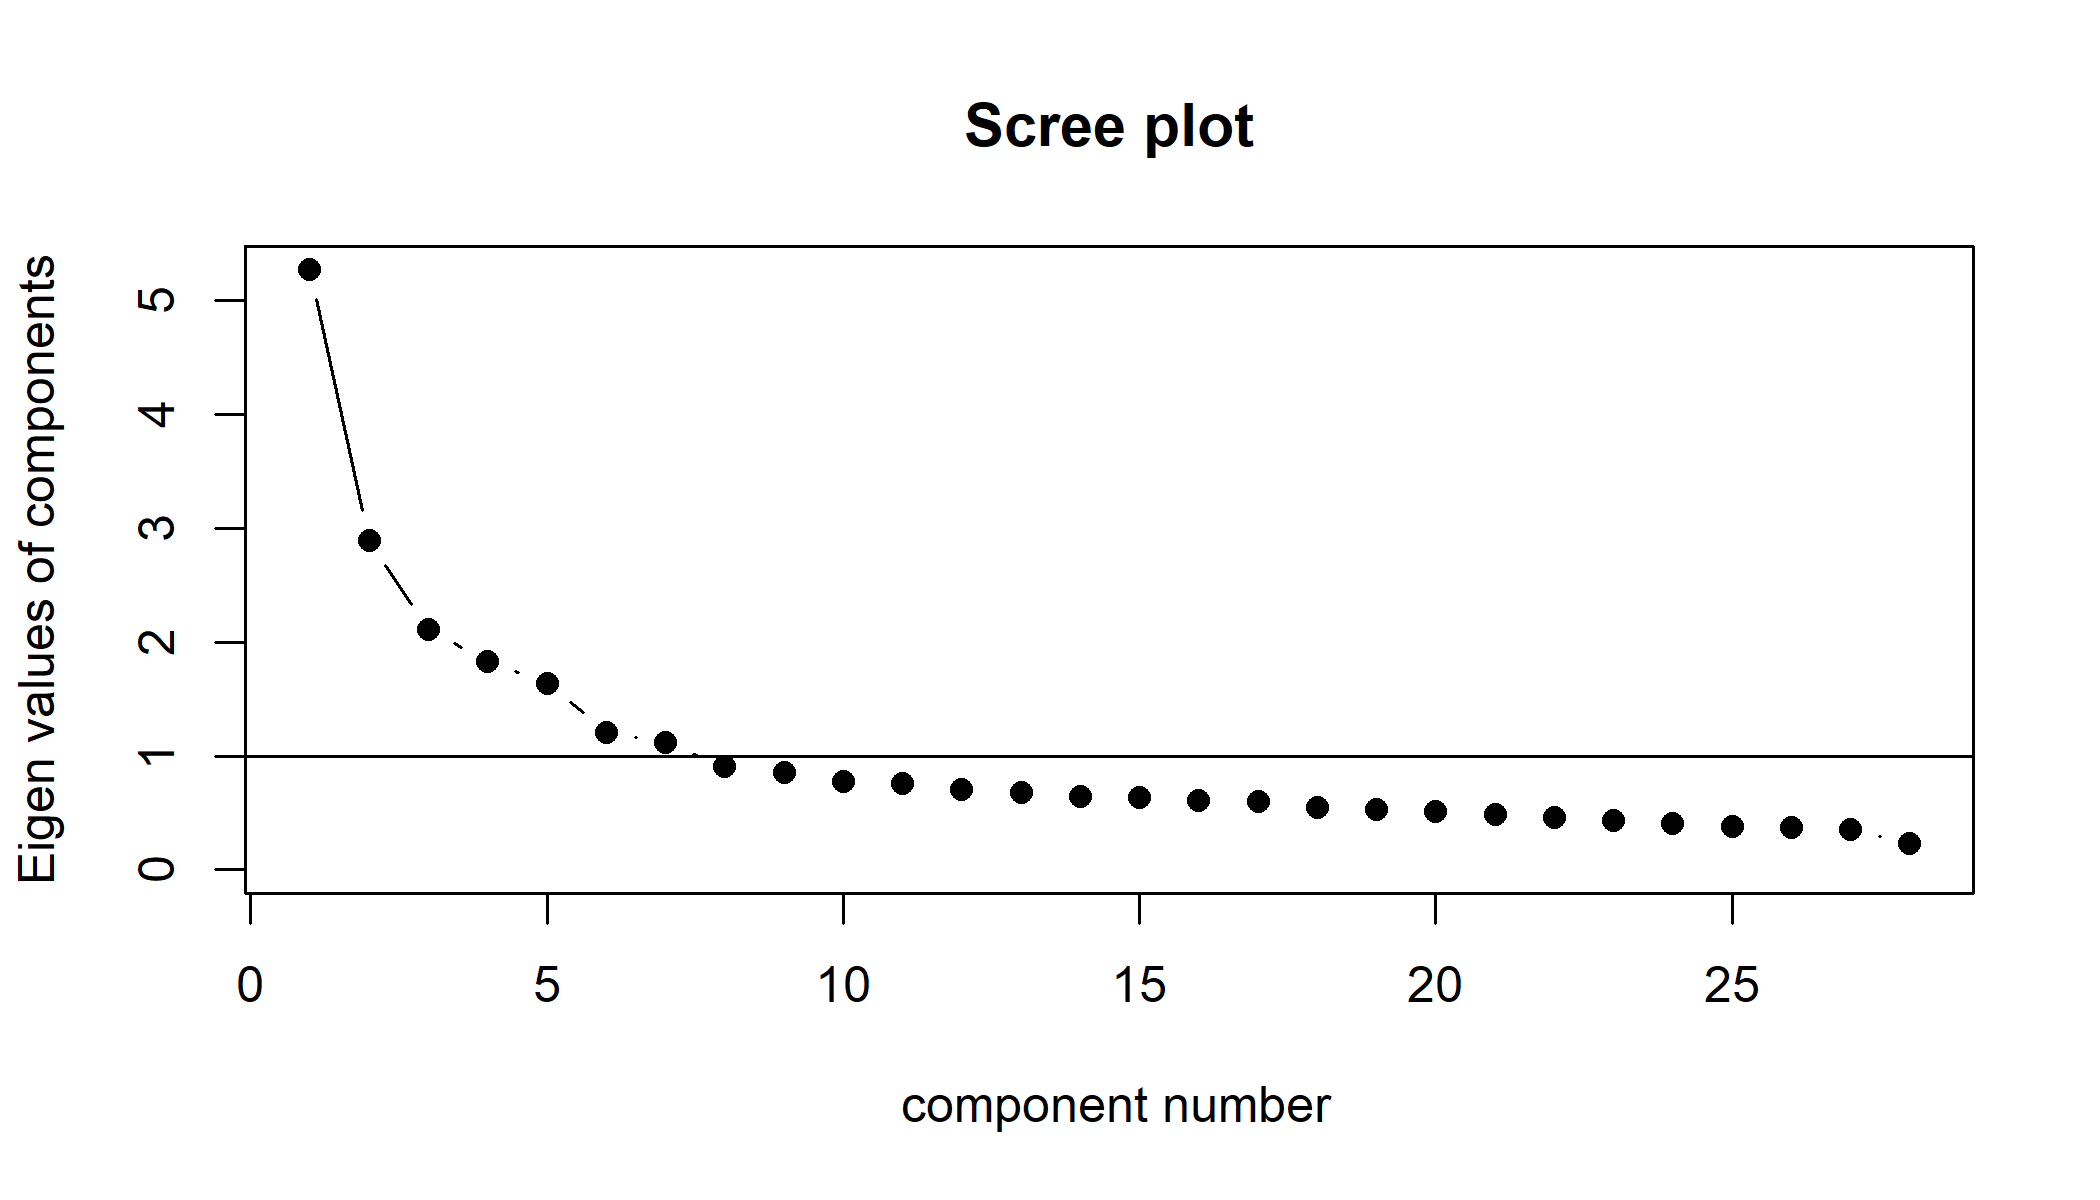
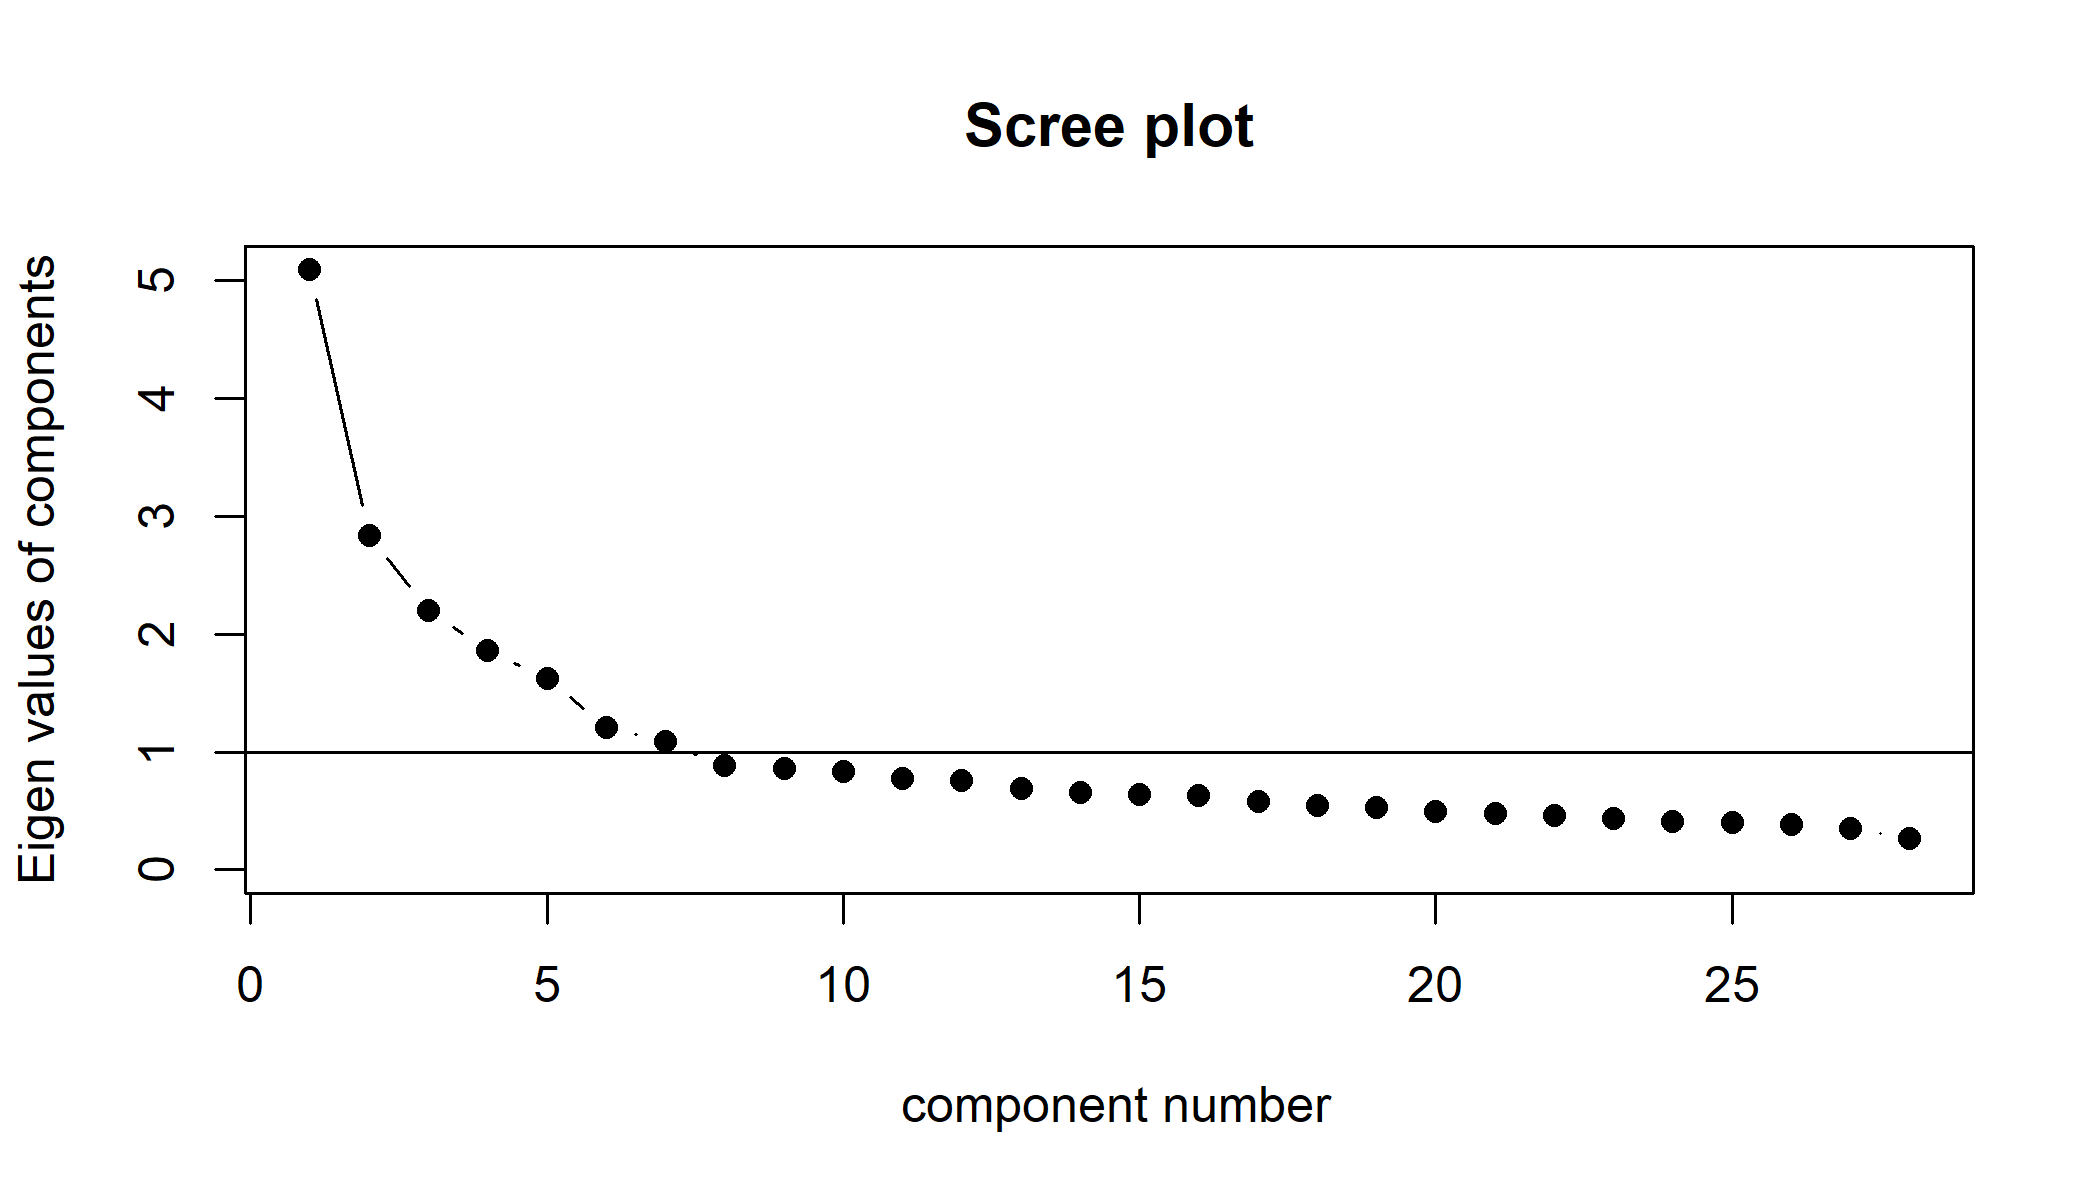
bissl was rausschemiessen

diff --git a/Predavanja/05_FA.html b/Predavanja/05_FA.html
@@ -630,7 +630,8 @@ fa.parallel(bfi_c, n.obs = 200,fa = "fa", fm = "mle") # MLE metoda
 # Rotacija faktora
 &lt;br&gt;
 &lt;br&gt;
-&lt;img src="../Foto/roto_fa.png" width="650px" style="display: block; margin: auto;" /&gt;
+&lt;br&gt;
+&lt;img src="../Foto/roto_fa.png" width="700px" style="display: block; margin: auto;" /&gt;
 
 ---
 
@@ -738,11 +739,11 @@ head(bfi_EFA, 2)
 
 ```
 ##       A1 A2 A3 A4 A5 C1 C2 C3 C4 C5 E1 E2 E3 E4 E5 N1 N2 N3 N4 N5 O1 O2 O3 O4
-## 67540  2  5  3  5  4  5  4  3  4  4  5  2  3  2  3  1  4  5  5  2  4  2  4  5
-## 66839  2  5  5  4  5  4  2  2  2  3  1  2  5  5  6  4  5  6  3  4  5  2  5  6
+## 64069  2  6  5  3  4  2  3  6  5  5  1  3  4  6  5  3  4  5  1  4  4  3  4  6
+## 64495  3  5  4  6  5  5  5  6  1  1  6  6  2  2  4  4  4  2  4  4  5  1  5  6
 ##       O5 gender education age
-## 67540  3      2         3  23
-## 66839  2      2         5  31
+## 64069  3      2         4  24
+## 64495  2      1         4  28
 ```
 
 ```r
@@ -751,10 +752,10 @@ head(bfi_CFA, 2)
 
 ```
 ##       A1 A2 A3 A4 A5 C1 C2 C3 C4 C5 E1 E2 E3 E4 E5 N1 N2 N3 N4 N5 O1 O2 O3 O4
-## 61618  2  4  5  2  5  5  4  4  3  4  1  1  6  4  3  3  3  3  5  5  4  2  4  3
+## 61617  2  4  3  4  4  2  3  3  4  4  3  3  3  4  4  3  4  2  2  3  3  6  3  4
 ## 61620  5  4  5  4  4  4  5  4  2  5  2  4  4  4  5  4  5  4  2  3  4  2  5  5
 ##       O5 gender education age
-## 61618  3      2        NA  18
+## 61617  3      1        NA  16
 ## 61620  2      2        NA  17
 ```
 
@@ -771,31 +772,31 @@ head(bfi_EFA_cor,4)
 ```
 
 ```
-##            A1         A2         A3         A4         A5           C1
-## A1  1.0000000 -0.3485411 -0.2616921 -0.1074986 -0.2112410 -0.002008271
-## A2 -0.3485411  1.0000000  0.4893062  0.3396107  0.3834474  0.103883312
-## A3 -0.2616921  0.4893062  1.0000000  0.3656780  0.5241816  0.145375299
-## A4 -0.1074986  0.3396107  0.3656780  1.0000000  0.3088916  0.092911860
-##            C2          C3         C4          C5         E1         E2
-## A1 0.01015049 -0.03456706  0.1120228  0.04244447  0.1317213  0.1000713
-## A2 0.16460793  0.17418600 -0.1517181 -0.10327993 -0.2302333 -0.2428094
-## A3 0.17009433  0.12609501 -0.1363902 -0.16874058 -0.2576359 -0.3142560
-## A4 0.21155697  0.09333812 -0.1298431 -0.22470974 -0.1339349 -0.1973320
-##             E3          E4          E5          N1          N2          N3
-## A1 -0.05687284 -0.07363716 -0.04034168  0.16762132  0.13160059  0.09706986
-## A2  0.28124568  0.27899770  0.29251717 -0.07165972 -0.03320127 -0.03650203
-## A3  0.41987223  0.39180883  0.28060836 -0.08803255 -0.06892558 -0.03712757
-## A4  0.21656333  0.33038534  0.16447138 -0.07929063 -0.12057037 -0.03386250
-##             N4           N5           O1            O2          O3          O4
-## A1  0.05200122  0.049425921 -0.001378464  0.0906157281 -0.07640793 -0.09550439
-## A2 -0.10430063  0.021558065  0.147759815  0.0008835529  0.16253218  0.09659215
-## A3 -0.13574623 -0.022086094  0.189609936 -0.0211844842  0.27305296  0.06358573
-## A4 -0.15938513 -0.004502436  0.081096994  0.0102137224  0.08934591 -0.04108789
-##              O5     gender    education         age
-## A1  0.118194330 -0.1456975 -0.124051244 -0.14773153
-## A2 -0.099962553  0.1905353  0.018466904  0.13203053
-## A3 -0.105185155  0.1304746  0.018054318  0.09565403
-## A4 -0.007090525  0.1153849 -0.004191934  0.13620315
+##            A1         A2         A3         A4         A5         C1         C2
+## A1  1.0000000 -0.3352959 -0.2728057 -0.1375883 -0.1514420 0.01739205 0.01060102
+## A2 -0.3352959  1.0000000  0.4877745  0.3459091  0.3811325 0.12697746 0.14392010
+## A3 -0.2728057  0.4877745  1.0000000  0.3613521  0.4900486 0.12489855 0.13785354
+## A4 -0.1375883  0.3459091  0.3613521  1.0000000  0.3235077 0.09467829 0.23279038
+##             C3         C4          C5         E1          E2         E3
+## A1 -0.01783306  0.1376209  0.04123172  0.1112480  0.09490553 -0.0283627
+## A2  0.23100935 -0.1588774 -0.12757642 -0.2207431 -0.22859332  0.2721867
+## A3  0.16741553 -0.1454697 -0.16289472 -0.2483077 -0.32009550  0.4171098
+## A4  0.13725781 -0.1463744 -0.20863281 -0.1310965 -0.18430445  0.1784194
+##             E4          E5          N1          N2          N3          N4
+## A1 -0.06212886 -0.03560382  0.15099350  0.12728828  0.10307092  0.02589476
+## A2  0.30960792  0.29424172 -0.09966623 -0.07923077 -0.05475419 -0.10669241
+## A3  0.39248887  0.26610977 -0.10400972 -0.08546580 -0.05685266 -0.14574324
+## A4  0.30785232  0.16574148 -0.08886486 -0.12879214 -0.06764519 -0.13969324
+##             N5         O1          O2          O3          O4          O5
+## A1  0.01821888 0.02036992  0.09238427 -0.06042714 -0.07379101  0.10281922
+## A2  0.02189162 0.12222326  0.02202875  0.15042011  0.08569123 -0.09351295
+## A3 -0.03098240 0.12210058 -0.02616394  0.23878685  0.02402204 -0.06915835
+## A4  0.03268684 0.06035262  0.04658407  0.07070544 -0.04244752  0.01176520
+##        gender   education         age
+## A1 -0.1186945 -0.13282060 -0.15790071
+## A2  0.1957883 -0.01801807  0.12943842
+## A3  0.1592532 -0.01504874  0.07515617
+## A4  0.1500163 -0.04727867  0.14161828
 ```
 ]
 
@@ -810,18 +811,6 @@ scree(bfi_EFA_cor, factors = FALSE)
 ```
 
 &lt;img src="05_FA_files/figure-html/unnamed-chunk-32-1.png" style="display: block; margin: auto;" /&gt;
-
-
----
-
-# Eksplorativna vs. konfirmatorna FA
-
-
-&lt;img src="../Foto/konf_FA.png" width="350px" style="display: block; margin: auto;" /&gt;
-
-
-&lt;img src="../Foto/eksp_FA.png" width="350px" style="display: block; margin: auto;" /&gt;
-
 
 ---
 
@@ -838,73 +827,73 @@ EFA_model
 ## Factor Analysis using method =  minres
 ## Call: fa(r = bfi_EFA, nfactors = 6)
 ## Standardized loadings (pattern matrix) based upon correlation matrix
-##             MR2   MR3   MR1   MR5   MR4   MR6    h2   u2 com
-## A1         0.10  0.07 -0.08 -0.56  0.05  0.29 0.338 0.66 1.7
-## A2         0.03  0.08 -0.06  0.65 -0.01 -0.03 0.473 0.53 1.1
-## A3        -0.04  0.04 -0.14  0.57  0.12  0.12 0.519 0.48 1.3
-## A4        -0.06  0.16 -0.11  0.37 -0.08  0.15 0.253 0.75 2.2
-## A5        -0.20  0.00 -0.18  0.46  0.13  0.19 0.484 0.52 2.3
-## C1         0.04  0.53  0.00 -0.02  0.13  0.03 0.322 0.68 1.1
-## C2         0.06  0.69  0.15  0.02  0.11  0.20 0.526 0.47 1.3
-## C3        -0.03  0.55  0.11  0.08 -0.04  0.04 0.301 0.70 1.1
-## C4         0.06 -0.67  0.08 -0.03  0.03  0.26 0.565 0.44 1.4
-## C5         0.12 -0.56  0.19  0.00  0.11  0.05 0.428 0.57 1.4
-## E1        -0.13  0.08  0.59 -0.16 -0.05  0.08 0.396 0.60 1.3
-## E2         0.05 -0.03  0.68 -0.07 -0.07  0.04 0.551 0.45 1.1
-## E3         0.02  0.00 -0.36  0.15  0.41  0.23 0.534 0.47 2.9
-## E4        -0.06  0.01 -0.55  0.18  0.05  0.29 0.563 0.44 1.8
-## E5         0.19  0.27 -0.42  0.06  0.23 -0.02 0.438 0.56 2.9
-## N1         0.86  0.00 -0.08 -0.08 -0.03 -0.01 0.714 0.29 1.0
-## N2         0.84  0.01 -0.05 -0.03  0.00 -0.06 0.681 0.32 1.0
-## N3         0.68 -0.03  0.11  0.07  0.04  0.09 0.543 0.46 1.1
-## N4         0.41 -0.17  0.42  0.08  0.11  0.07 0.490 0.51 2.6
-## N5         0.42  0.00  0.25  0.20 -0.12  0.22 0.396 0.60 3.0
-## O1        -0.03  0.07 -0.05 -0.05  0.57  0.06 0.362 0.64 1.1
-## O2         0.11 -0.08 -0.02  0.06 -0.37  0.37 0.310 0.69 2.3
-## O3        -0.02  0.05 -0.09  0.03  0.60 -0.03 0.432 0.57 1.1
-## O4         0.11  0.00  0.35  0.16  0.39 -0.04 0.264 0.74 2.5
-## O5         0.02 -0.01 -0.05 -0.06 -0.45  0.38 0.350 0.65 2.0
-## gender     0.21  0.11 -0.02  0.34 -0.23 -0.07 0.161 0.84 2.8
-## education -0.07  0.04  0.12  0.12  0.06 -0.17 0.059 0.94 3.6
-## age       -0.04  0.08  0.03  0.23  0.01 -0.24 0.116 0.88 2.3
+##             MR2   MR1   MR3   MR5   MR4   MR6    h2   u2 com
+## A1         0.07 -0.05  0.06 -0.55  0.00  0.37 0.371 0.63 1.9
+## A2        -0.01 -0.07  0.10  0.63  0.03 -0.01 0.473 0.53 1.1
+## A3        -0.05 -0.18  0.04  0.57  0.09  0.11 0.500 0.50 1.4
+## A4        -0.06 -0.08  0.19  0.40 -0.12  0.13 0.283 0.72 2.1
+## A5        -0.19 -0.20  0.02  0.44  0.08  0.21 0.458 0.54 2.5
+## C1         0.03  0.09  0.51 -0.02  0.18  0.08 0.325 0.68 1.4
+## C2         0.09  0.14  0.65  0.02  0.11  0.20 0.492 0.51 1.4
+## C3         0.03  0.09  0.54  0.12 -0.04  0.06 0.302 0.70 1.2
+## C4         0.07  0.06 -0.65 -0.04 -0.01  0.27 0.543 0.46 1.4
+## C5         0.14  0.16 -0.60  0.03  0.10  0.05 0.457 0.54 1.3
+## E1        -0.14  0.58  0.10 -0.15 -0.09  0.05 0.382 0.62 1.4
+## E2         0.03  0.73  0.00 -0.06 -0.06  0.03 0.590 0.41 1.0
+## E3         0.00 -0.32  0.01  0.16  0.37  0.28 0.486 0.51 3.2
+## E4        -0.07 -0.54  0.03  0.21 -0.02  0.27 0.546 0.45 1.9
+## E5         0.17 -0.41  0.25  0.05  0.26  0.00 0.415 0.59 2.9
+## N1         0.84 -0.11  0.01 -0.09 -0.04 -0.02 0.681 0.32 1.1
+## N2         0.80 -0.05  0.01 -0.06  0.03 -0.06 0.623 0.38 1.0
+## N3         0.68  0.12 -0.04  0.07  0.03  0.08 0.543 0.46 1.1
+## N4         0.45  0.39 -0.16  0.12  0.06  0.02 0.491 0.51 2.4
+## N5         0.46  0.20 -0.01  0.24 -0.18  0.15 0.396 0.60 2.5
+## O1        -0.02 -0.05  0.05 -0.06  0.56  0.09 0.338 0.66 1.1
+## O2         0.11 -0.02 -0.08  0.09 -0.41  0.28 0.284 0.72 2.2
+## O3         0.01 -0.06  0.02  0.04  0.66  0.05 0.487 0.51 1.0
+## O4         0.09  0.38 -0.01  0.18  0.34  0.02 0.246 0.75 2.6
+## O5         0.05 -0.05 -0.03 -0.02 -0.52  0.27 0.348 0.65 1.5
+## gender     0.19 -0.06  0.13  0.31 -0.18 -0.07 0.150 0.85 3.0
+## education -0.01  0.09  0.00  0.08  0.09 -0.21 0.062 0.94 2.1
+## age       -0.02  0.02  0.07  0.24 -0.01 -0.23 0.103 0.90 2.2
 ## 
-##                        MR2  MR3  MR1  MR5  MR4  MR6
-## SS loadings           2.57 2.15 2.25 1.98 1.72 0.90
-## Proportion Var        0.09 0.08 0.08 0.07 0.06 0.03
-## Cumulative Var        0.09 0.17 0.25 0.32 0.38 0.41
-## Proportion Explained  0.22 0.19 0.19 0.17 0.15 0.08
-## Cumulative Proportion 0.22 0.41 0.60 0.77 0.92 1.00
+##                        MR2  MR1  MR3  MR5  MR4  MR6
+## SS loadings           2.52 2.19 2.09 1.95 1.78 0.84
+## Proportion Var        0.09 0.08 0.07 0.07 0.06 0.03
+## Cumulative Var        0.09 0.17 0.24 0.31 0.38 0.41
+## Proportion Explained  0.22 0.19 0.18 0.17 0.16 0.07
+## Cumulative Proportion 0.22 0.41 0.60 0.77 0.93 1.00
 ## 
 ##  With factor correlations of 
-##       MR2   MR3   MR1   MR5   MR4   MR6
-## MR2  1.00 -0.15  0.24 -0.06  0.00  0.16
-## MR3 -0.15  1.00 -0.24  0.19  0.22 -0.03
-## MR1  0.24 -0.24  1.00 -0.29 -0.23 -0.07
-## MR5 -0.06  0.19 -0.29  1.00  0.27  0.15
-## MR4  0.00  0.22 -0.23  0.27  1.00  0.03
-## MR6  0.16 -0.03 -0.07  0.15  0.03  1.00
+##       MR2   MR1   MR3   MR5   MR4   MR6
+## MR2  1.00  0.24 -0.18 -0.06 -0.01  0.16
+## MR1  0.24  1.00 -0.22 -0.27 -0.20 -0.12
+## MR3 -0.18 -0.22  1.00  0.18  0.24  0.03
+## MR5 -0.06 -0.27  0.18  1.00  0.19  0.17
+## MR4 -0.01 -0.20  0.24  0.19  1.00  0.04
+## MR6  0.16 -0.12  0.03  0.17  0.04  1.00
 ## 
 ## Mean item complexity =  1.8
 ## Test of the hypothesis that 6 factors are sufficient.
 ## 
-## The degrees of freedom for the null model are  378  and the objective function was  8.06 with Chi Square of  11199.96
-## The degrees of freedom for the model are 225  and the objective function was  0.65 
+## The degrees of freedom for the null model are  378  and the objective function was  7.75 with Chi Square of  10763.45
+## The degrees of freedom for the model are 225  and the objective function was  0.66 
 ## 
-## The root mean square of the residuals (RMSR) is  0.02 
+## The root mean square of the residuals (RMSR) is  0.03 
 ## The df corrected root mean square of the residuals is  0.03 
 ## 
-## The harmonic number of observations is  1375 with the empirical chi square  643.55  with prob &lt;  5.8e-42 
-## The total number of observations was  1400  with Likelihood Chi Square =  896.36  with prob &lt;  7.1e-81 
+## The harmonic number of observations is  1374 with the empirical chi square  657.2  with prob &lt;  6.4e-44 
+## The total number of observations was  1400  with Likelihood Chi Square =  914.57  with prob &lt;  7.3e-84 
 ## 
-## Tucker Lewis Index of factoring reliability =  0.895
-## RMSEA index =  0.046  and the 90 % confidence intervals are  0.043 0.049
-## BIC =  -733.6
+## Tucker Lewis Index of factoring reliability =  0.888
+## RMSEA index =  0.047  and the 90 % confidence intervals are  0.044 0.05
+## BIC =  -715.39
 ## Fit based upon off diagonal values = 0.98
 ## Measures of factor score adequacy             
-##                                                    MR2  MR3  MR1  MR5  MR4  MR6
-## Correlation of (regression) scores with factors   0.93 0.89 0.89 0.87 0.86 0.78
-## Multiple R square of scores with factors          0.87 0.79 0.80 0.76 0.73 0.61
-## Minimum correlation of possible factor scores     0.74 0.59 0.60 0.53 0.47 0.21
+##                                                    MR2  MR1  MR3  MR5  MR4  MR6
+## Correlation of (regression) scores with factors   0.93 0.89 0.89 0.87 0.86 0.76
+## Multiple R square of scores with factors          0.86 0.80 0.78 0.76 0.74 0.58
+## Minimum correlation of possible factor scores     0.72 0.60 0.57 0.52 0.49 0.17
 ```
 ]
 
@@ -921,40 +910,40 @@ EFA_model$loadings
 ```
 ## 
 ## Loadings:
-##           MR2    MR3    MR1    MR5    MR4    MR6   
-## A1                             -0.563         0.290
-## A2                              0.654              
-## A3                      -0.144  0.573  0.121  0.124
-## A4                0.159 -0.109  0.365         0.148
-## A5        -0.196        -0.181  0.464  0.133  0.191
-## C1                0.532                0.131       
-## C2                0.691  0.147         0.113  0.201
-## C3                0.553  0.109                     
-## C4               -0.665                       0.258
-## C5         0.124 -0.561  0.188         0.106       
-## E1        -0.134         0.590 -0.157              
-## E2                       0.677                     
-## E3                      -0.361  0.154  0.410  0.225
-## E4                      -0.551  0.179         0.292
-## E5         0.187  0.270 -0.419         0.231       
-## N1         0.857                                   
-## N2         0.843                                   
-## N3         0.680         0.108                     
-## N4         0.410 -0.168  0.421         0.111       
-## N5         0.424         0.255  0.197 -0.123  0.220
-## O1                                     0.575       
-## O2         0.106                      -0.370  0.373
-## O3                                     0.604       
-## O4         0.107         0.345  0.163  0.391       
-## O5                                    -0.453  0.377
-## gender     0.206  0.106         0.339 -0.226       
-## education                0.118  0.124        -0.170
-## age                             0.235        -0.242
+##           MR2    MR1    MR3    MR5    MR4    MR6   
+## A1                             -0.548         0.369
+## A2                              0.633              
+## A3               -0.179         0.566         0.107
+## A4                       0.194  0.397 -0.119  0.131
+## A5        -0.190 -0.201         0.438         0.214
+## C1                       0.512         0.184       
+## C2                0.138  0.654         0.105  0.197
+## C3                       0.537  0.123              
+## C4                      -0.649                0.267
+## C5         0.140  0.163 -0.600         0.102       
+## E1        -0.140  0.576        -0.147              
+## E2                0.729                            
+## E3               -0.318         0.156  0.372  0.281
+## E4               -0.537         0.209         0.272
+## E5         0.168 -0.406  0.248         0.262       
+## N1         0.841 -0.113                            
+## N2         0.804                                   
+## N3         0.679  0.117                            
+## N4         0.455  0.385 -0.164  0.119              
+## N5         0.462  0.197         0.237 -0.175  0.154
+## O1                                     0.555       
+## O2         0.109                      -0.412  0.281
+## O3                                     0.662       
+## O4                0.376         0.181  0.338       
+## O5                                    -0.525  0.266
+## gender     0.191         0.131  0.313 -0.177       
+## education                                    -0.214
+## age                             0.241        -0.230
 ## 
-##                  MR2   MR3   MR1   MR5   MR4   MR6
-## SS loadings    2.467 2.004 1.977 1.798 1.594 0.859
-## Proportion Var 0.088 0.072 0.071 0.064 0.057 0.031
-## Cumulative Var 0.088 0.160 0.230 0.294 0.351 0.382
+##                  MR2   MR1   MR3   MR5   MR4   MR6
+## SS loadings    2.430 1.948 1.948 1.782 1.689 0.787
+## Proportion Var 0.087 0.070 0.070 0.064 0.060 0.028
+## Cumulative Var 0.087 0.156 0.226 0.290 0.350 0.378
 ```
 ]
 
@@ -971,13 +960,13 @@ head(EFA_model$scores)
 ```
 
 ```
-##               MR2        MR3        MR1         MR5        MR4         MR6
-## 67540 -0.05364347 -0.7358083  0.9775919 -0.35250780 -0.4395425 -0.48005282
-## 66839  0.99687531 -0.6611137 -0.8297304  0.56327691  0.6223045 -0.67609902
-## 66439 -0.77663896 -0.2246268 -1.5541089  0.03902316 -0.8275187  0.03526220
-## 64747 -0.42252557 -0.1550909  0.1406890 -0.04838153 -0.5055491 -1.54922616
-## 65965 -1.28856757 -1.4005217  0.9964708  0.77522336 -1.5098823 -0.13883822
-## 66234 -1.01458123 -0.4583587 -0.6814731 -0.03034165 -0.2179928  0.04893968
+##              MR2        MR1        MR3        MR5        MR4        MR6
+## 64069 0.36384774 -0.5520311 -1.1317340  0.5768891 -0.3937724  0.3201839
+## 64495 0.07988474  1.6059104  1.2631588 -0.3233387  0.1540410 -0.7019641
+## 62795 0.54030891  0.4617641 -1.2126318 -0.1319860 -2.7327064  0.3696351
+## 62942 0.23525170  0.1962169  0.7800890  0.6559302 -0.3013955  0.1670891
+## 67238 0.06193102  0.1612078 -0.4647004 -1.6962687  0.2489364  0.3774843
+## 66264         NA         NA         NA         NA         NA         NA
 ```
 
 ---
@@ -1014,7 +1003,7 @@ bfi_theory$BIC
 ```
 
 ```
-## [1] -425.0584
+## [1] -466.7392
 ```
 
 ```r
@@ -1022,7 +1011,7 @@ bfi_eigen$BIC
 ```
 
 ```
-## [1] -733.5951
+## [1] -715.3859
 ```
 
 
@@ -1059,14 +1048,14 @@ name: conf
 &lt;br&gt;
 
 
-&lt;img src="assets/3153172.png" width="614" style="display: block; margin: auto;" /&gt;
+&lt;img src="assets/8431578.png" width="614" style="display: block; margin: auto;" /&gt;
 
 ---
 
 # Skica II (*više konstrukata*)
 &lt;br&gt;
 &lt;br&gt;
-&lt;img src="assets/4245707.png" width="507" style="display: block; margin: auto;" /&gt;
+&lt;img src="assets/8697169.png" width="507" style="display: block; margin: auto;" /&gt;
 
 
 ---
@@ -1238,7 +1227,7 @@ lavaan::summary(hz.fit, fit.measures=TRUE)
 semPlot::semPaths(hz.fit)
 ```
 
-&lt;img src="05_FA_files/figure-html/unnamed-chunk-46-1.png" style="display: block; margin: auto;" /&gt;
+&lt;img src="05_FA_files/figure-html/unnamed-chunk-44-1.png" style="display: block; margin: auto;" /&gt;
 
 
 ---
@@ -1251,7 +1240,7 @@ semPlot::semPaths(hz.fit)
 semPlot::semPaths(hz.fit, "std")
 ```
 
-&lt;img src="05_FA_files/figure-html/unnamed-chunk-47-1.png" style="display: block; margin: auto;" /&gt;
+&lt;img src="05_FA_files/figure-html/unnamed-chunk-45-1.png" style="display: block; margin: auto;" /&gt;
 
 
 ---
